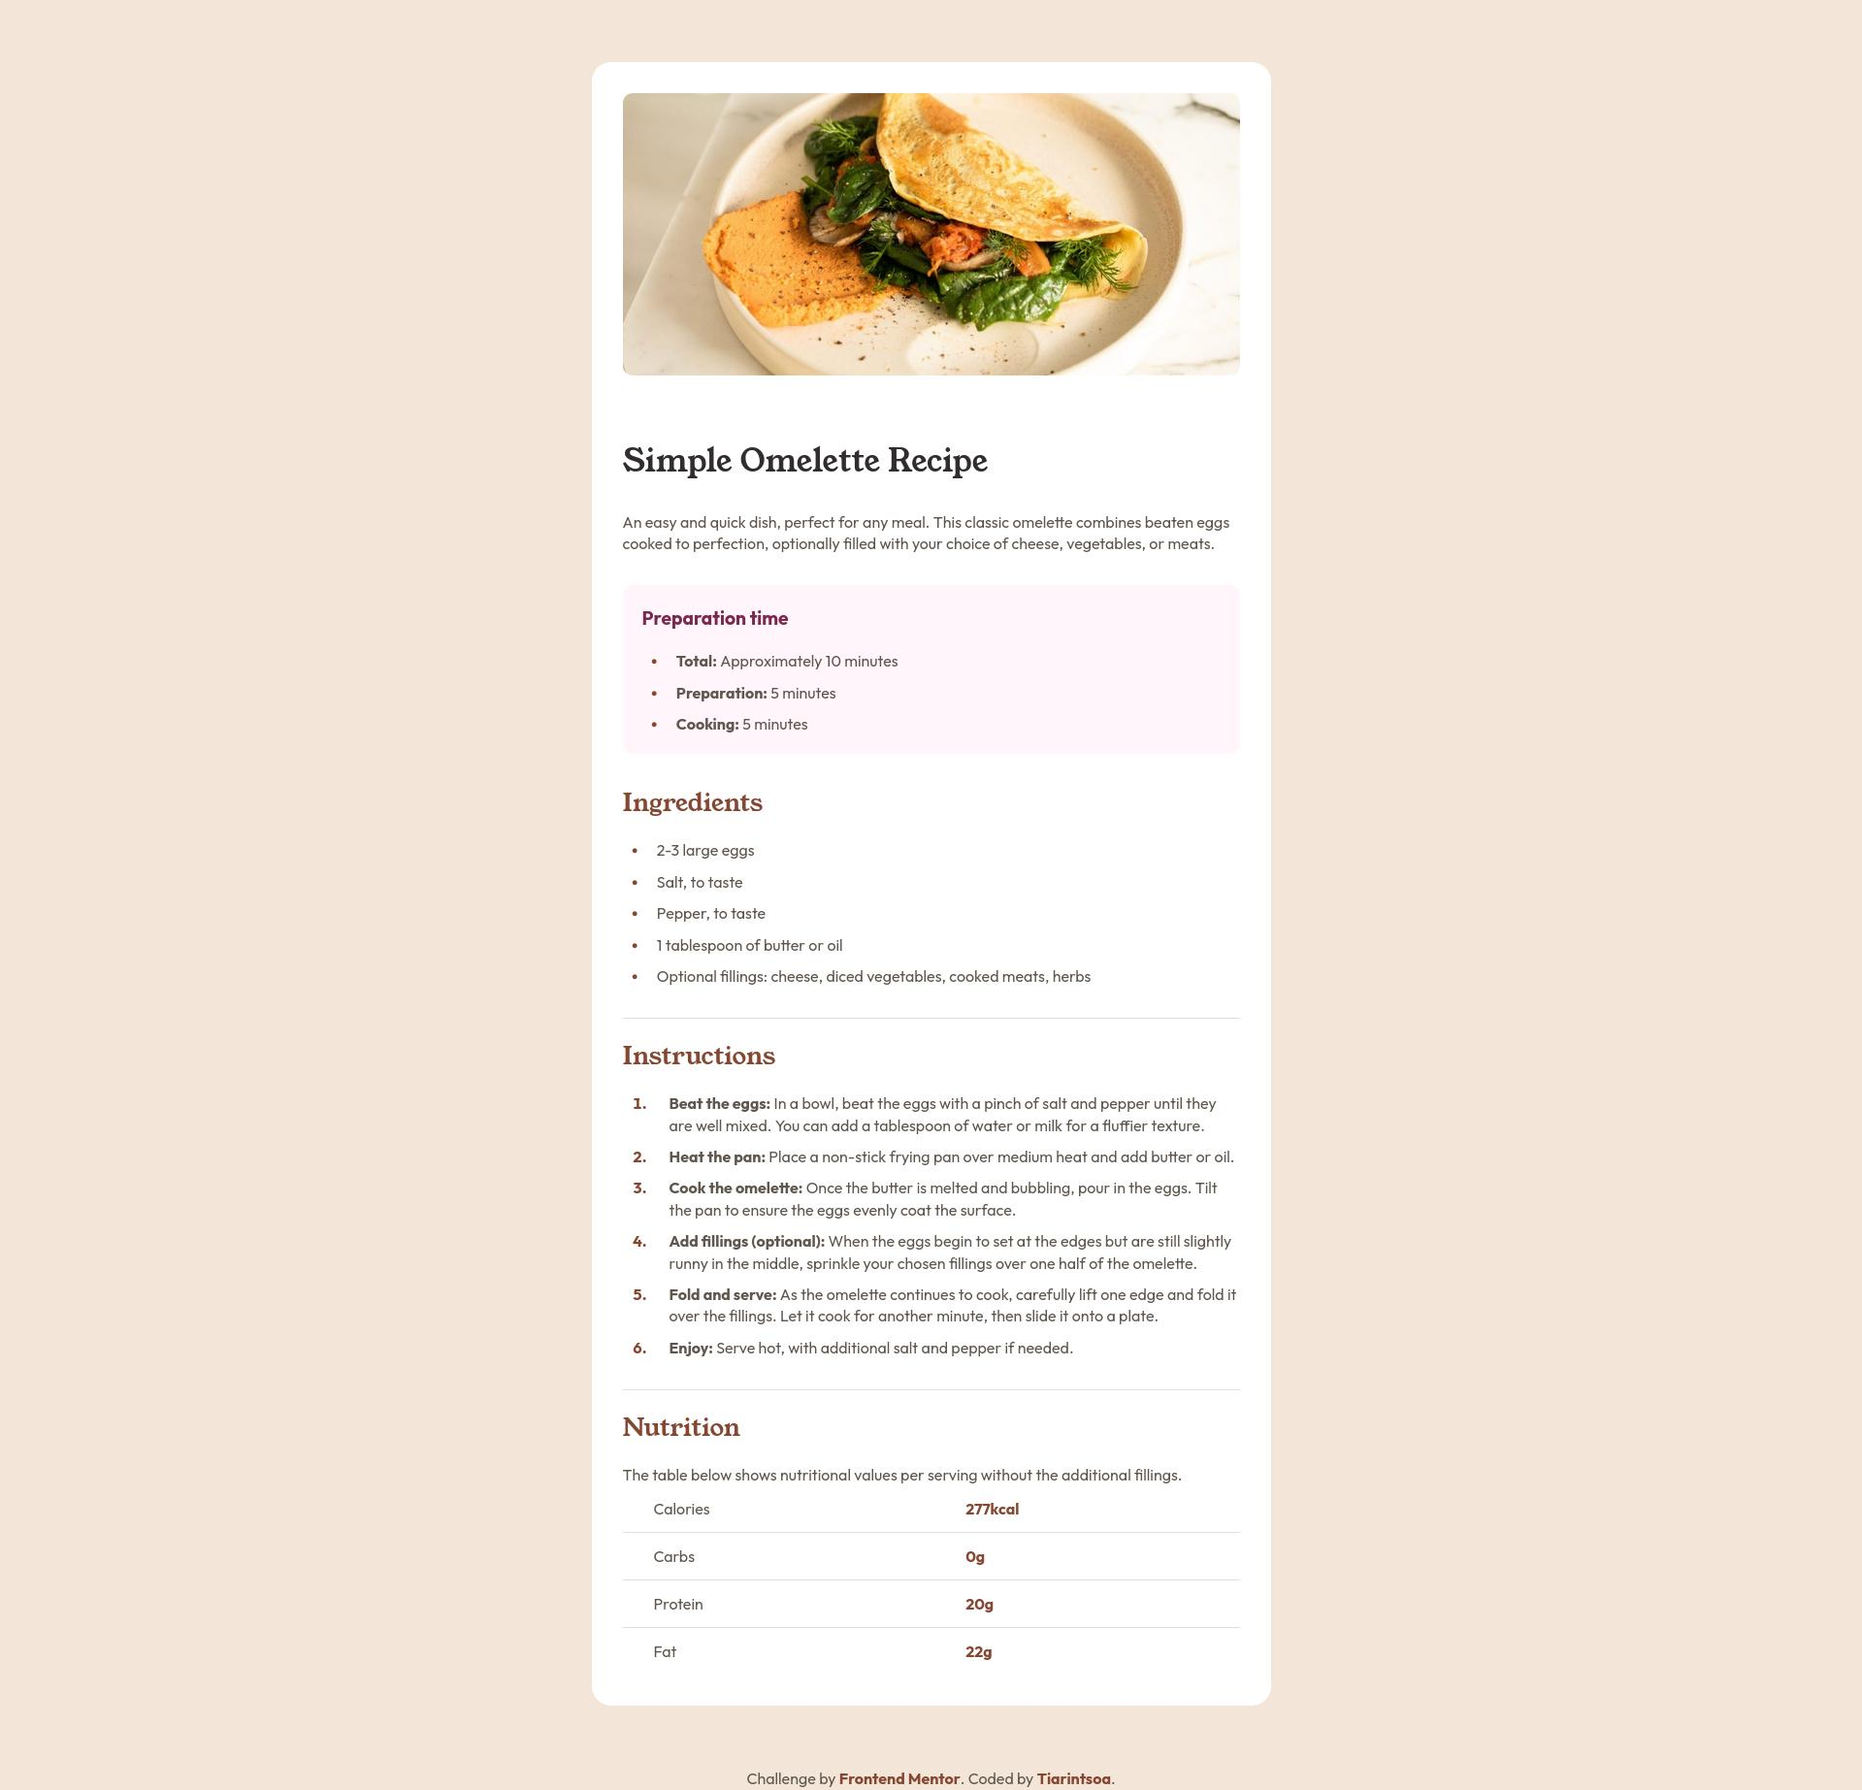
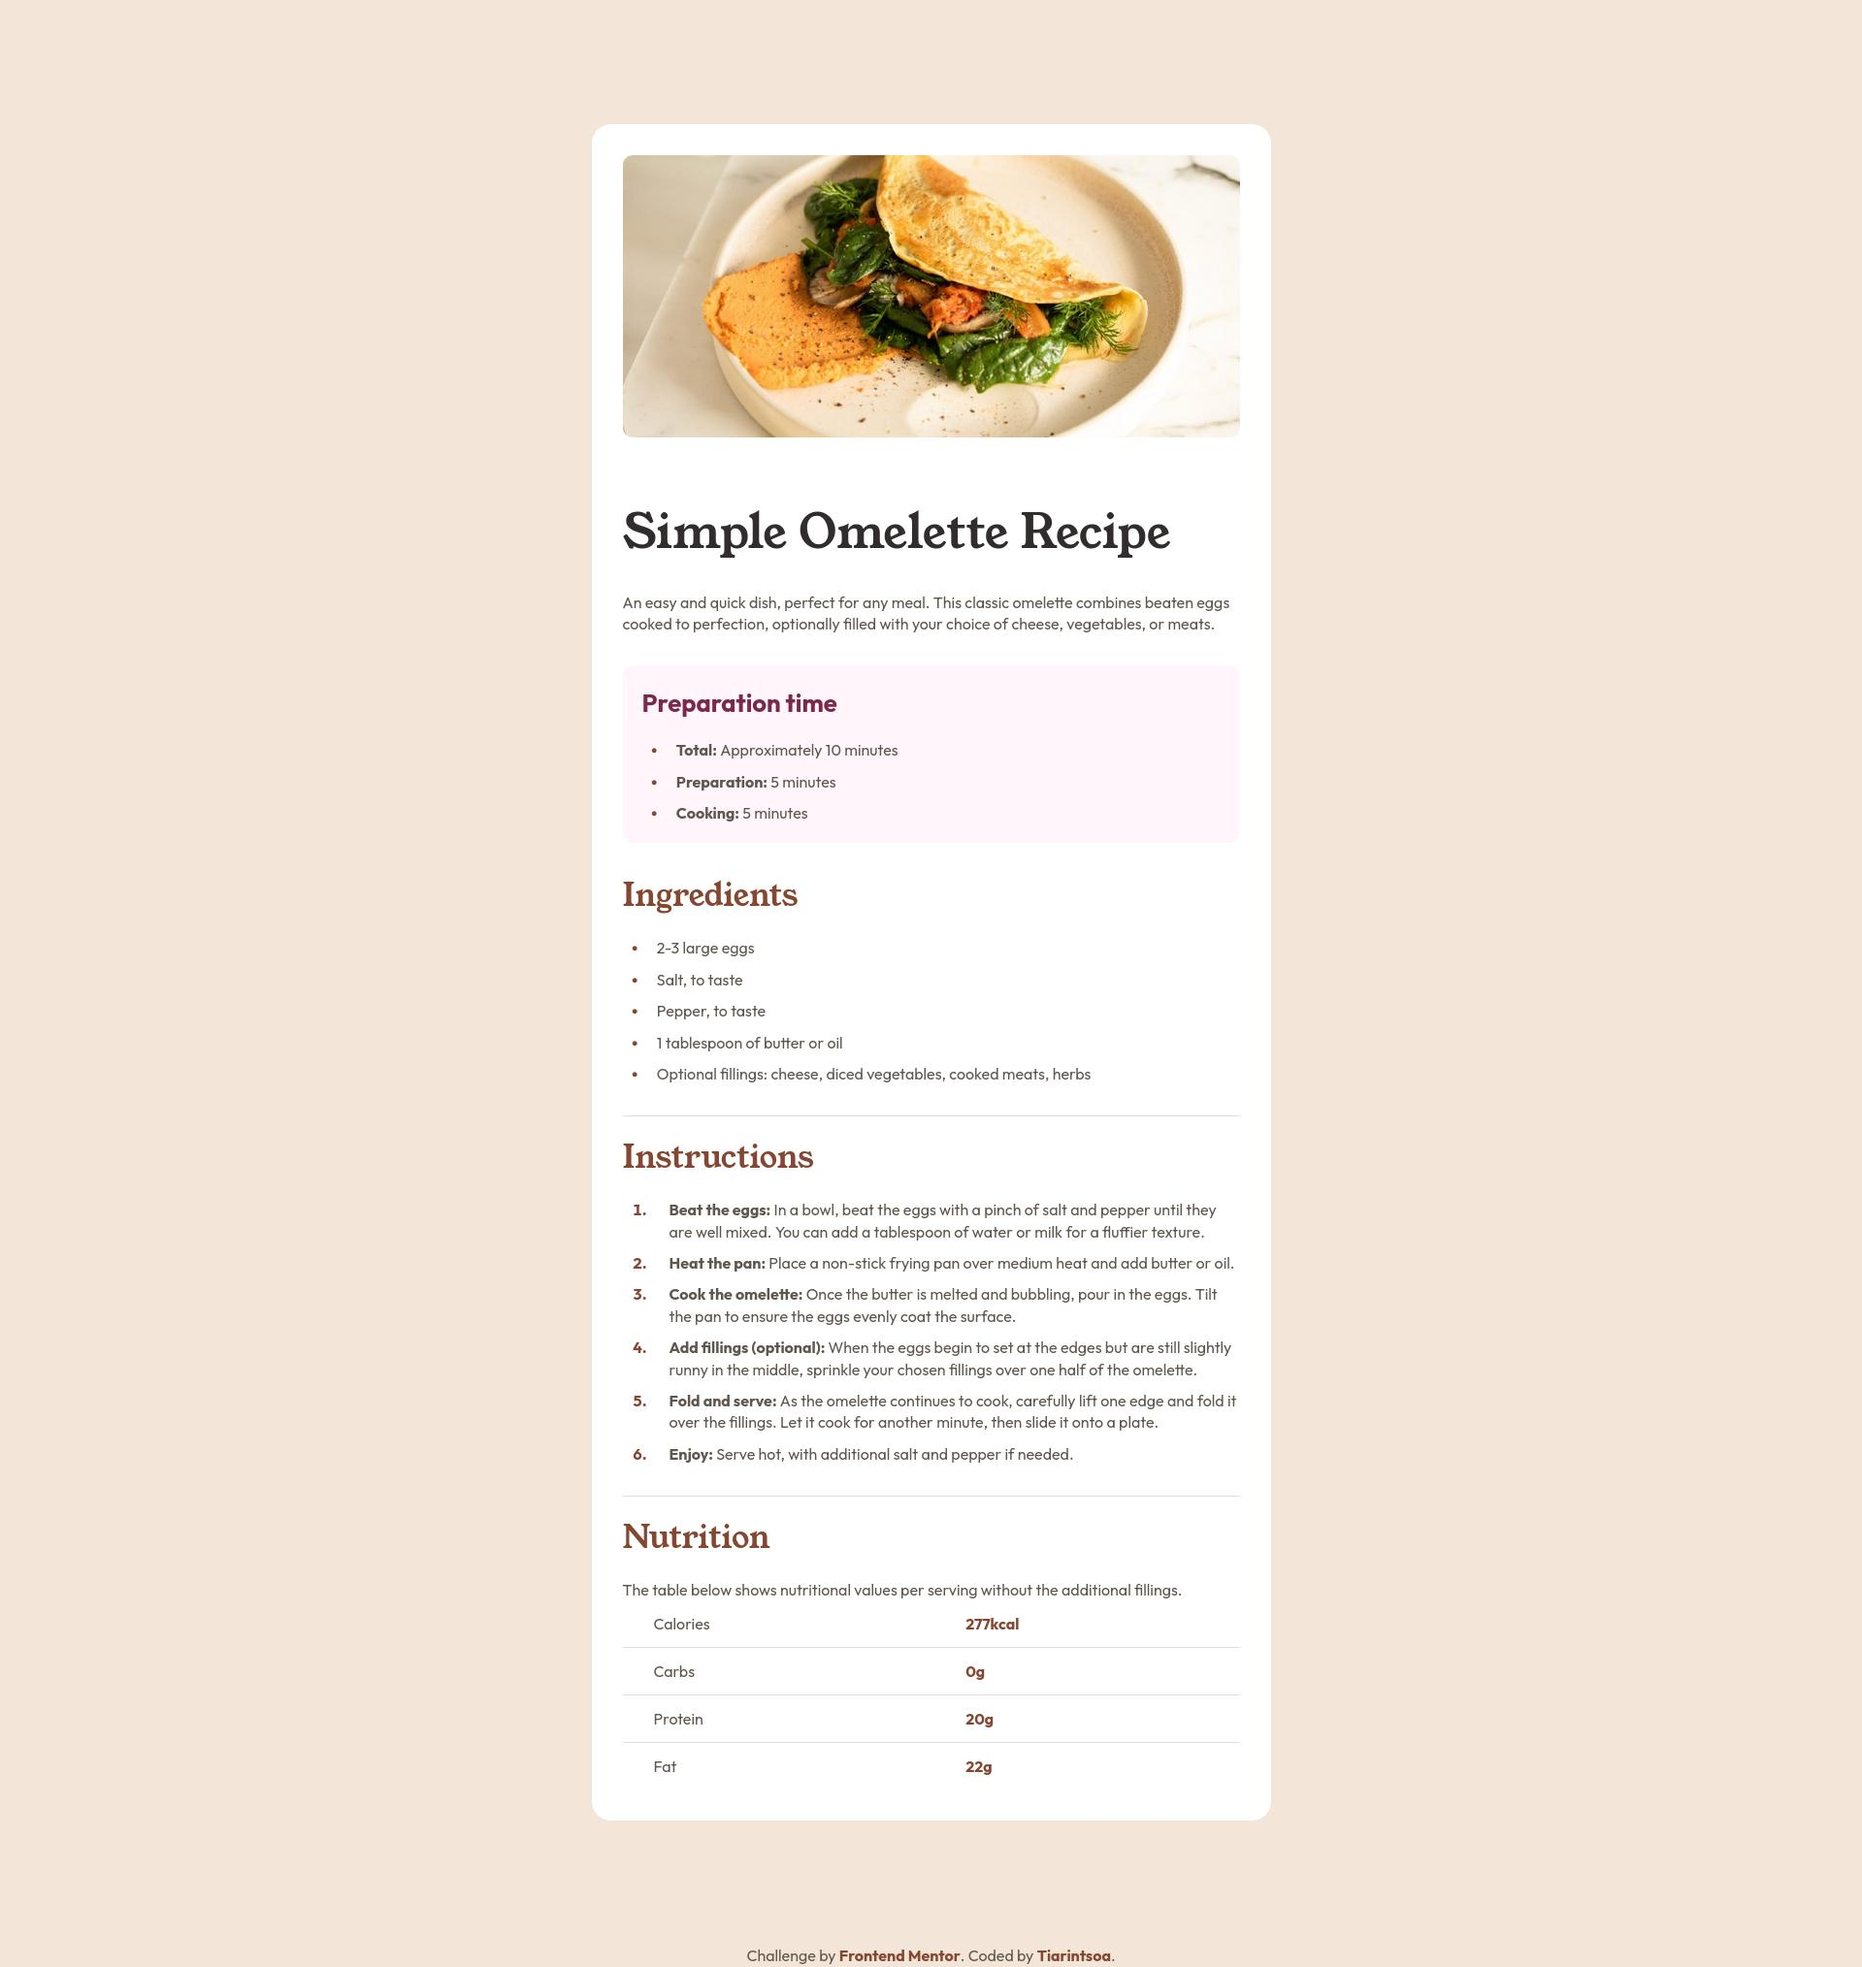
Font size update

Changed region(s): [[0.3075, 0.0309, 0.7071, 0.5561], [0.3075, 0.587, 0.7071, 0.9577], [0.3997, 0.9886, 0.6149, 1.0]]

diff --git a/style.css b/style.css
@@ -47,6 +47,9 @@ a {
     --large-spacing: 32px;
     --medium-spacing: 20px;
     --small-spacing: 10px;
+
+    --h1-font-size: 2rem;
+    --h2-font-size: 1.6rem;
 }
 
 body {
@@ -74,14 +77,14 @@ body {
     margin-bottom: var(--large-spacing);
 }
 
-h1, h2, h3 {
+h1, h2 {
     margin-bottom: var(--medium-spacing);
 }
 
 .recipe-name {
     font-family: 'Young serif', serif;
     color: var(--stone-900);
-    font-size: 2rem;
+    font-size: var(--h1-font-size);
     line-height: 1.2;
     margin-bottom: var(--large-spacing);
 }
@@ -92,9 +95,9 @@ h1, h2, h3 {
     border-radius: 10px;
 }
 
-.recipe-preparation-time h3 {
+.recipe-preparation-time h2 {
     color: var(--rose-800);
-    font-size: 1.2rem;
+    font-size: calc(var(--h2-font-size) - .4rem);
 }
 
 ol {
@@ -145,7 +148,7 @@ li::marker {
 .section-title {
     font-family: 'Young serif', serif;
     color: var(--brown-800);
-    font-size: 1.6rem;
+    font-size: var(--h2-font-size);
 }
 
 .recipe-details hr {
@@ -183,6 +186,11 @@ li::marker {
 }
 
 @media screen and (min-width: 400px) {
+    :root {
+        --h1-font-size: 3rem;
+        --h2-font-size: 2rem;
+    }
+
     body {
         display: -ms-grid;
         display: grid;
@@ -192,7 +200,7 @@ li::marker {
     .card {
         width: min(100%, 700px);
         border-radius: 20px;
-        margin-block: calc(2 * var(--large-spacing));
+        margin-block: calc(4 * var(--large-spacing));
     }
 
     .recipe-img {

diff --git a/index.html b/index.html
@@ -21,7 +21,7 @@
         </p>
       </section>
       <section class="recipe-preparation-time">
-        <h3>Preparation time</h3>
+        <h2>Preparation time</h2>
         <ul>
           <li><span><strong>Total:</strong> Approximately 10 minutes</span></li>
           <li><span><strong>Preparation:</strong> 5 minutes</span></li>

diff --git a/README.md b/README.md
@@ -22,8 +22,8 @@ This is a solution to the [Recipe page challenge on Frontend Mentor](https://www
 
 ### Links
 
-- Solution URL: [Add solution URL here](https://your-solution-url.com)
-- Live Site URL: [Add live site URL here](https://your-live-site-url.com)
+- Solution URL: [click here](https://www.frontendmentor.io/solutions/recipe-page-Fr2QqrrCdr)
+- Live Site URL: [click here](https://legendaryghost.github.io/recipe-page/)
 
 ## My process
 
